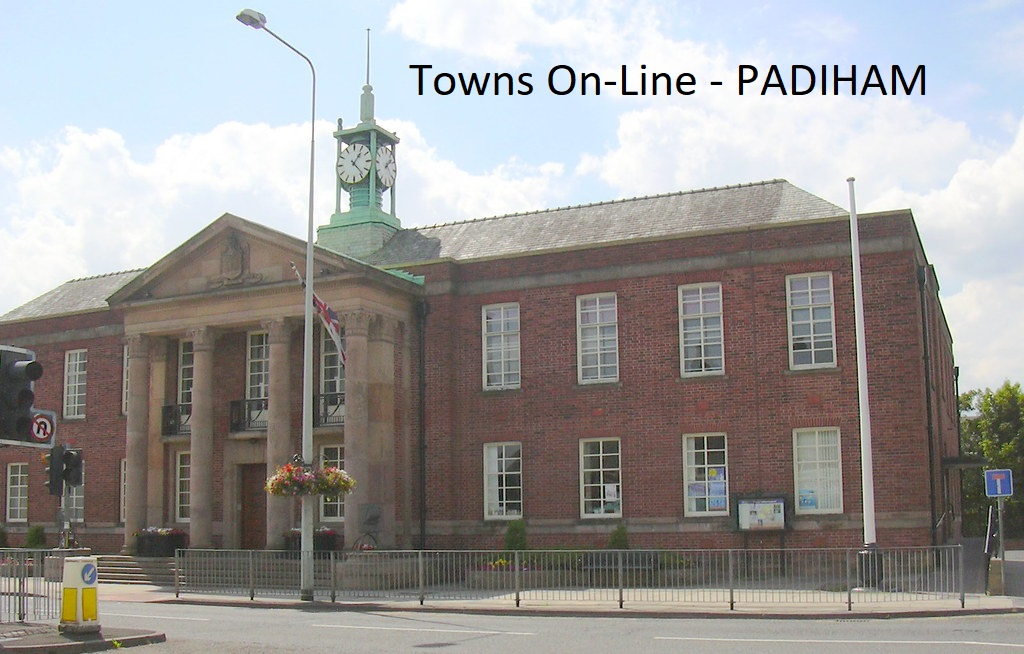
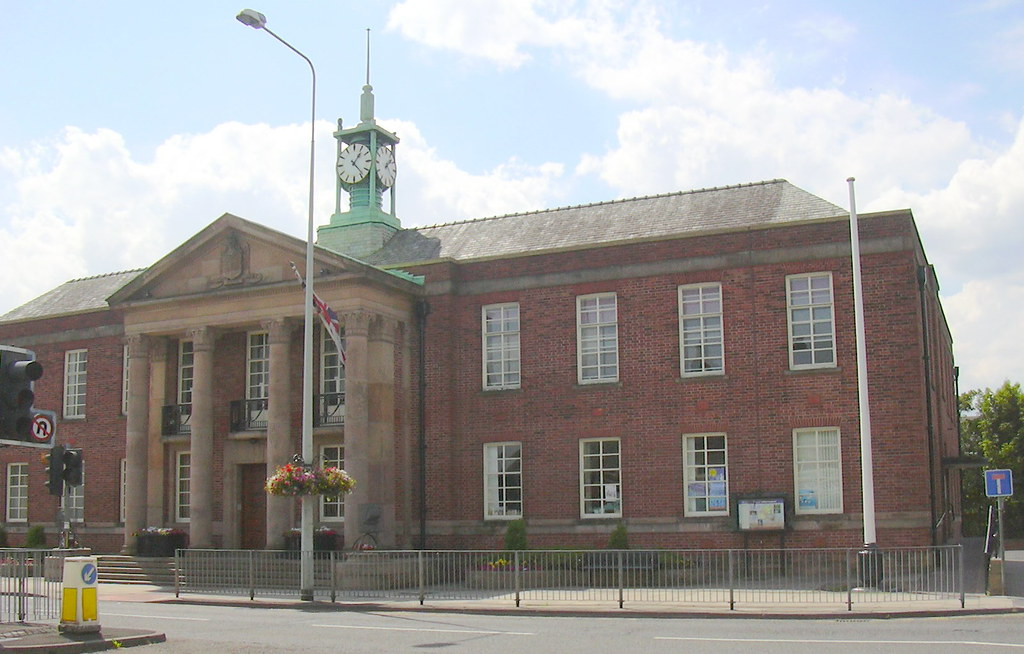
changed title/divider image and added caption. Changed cellar video and fixed audio mute

Changed region(s): [[0.4062, 0.0917, 0.6875, 0.1529], [0.7188, 0.0917, 0.9062, 0.1529]]

diff --git a/index.html b/index.html
@@ -15,6 +15,9 @@
       <div class="carousel-inner">
         <div class="carousel-item active">
           <img class="d-block w-100" src="Images/Town_Hall.jpg" alt="First slide" class="title">
+          <div class="carousel-caption d-none d-md-block">
+            <h2>Padiham Business Community</h2>
+          </div>
         </div>
         <div id="pre_vid" class="carousel-item">
           <img class="d-block w-100" src="Images/Ultimate_1.jpg" alt="Second slide">
@@ -33,6 +36,9 @@
         </div>
         <div class="carousel-item">
           <img class="d-block w-100" src="Images/Town_Hall.jpg" alt="First slide" class="title">
+          <div class="carousel-caption d-none d-md-block">
+            <h2>Padiham Business Community</h2>
+          </div>
         </div>
         <div id="pre_vid2" class="carousel-item">
           <img class="d-block w-100" src="Images/Lawrence_1.jpg" alt="Second slide">
@@ -57,13 +63,16 @@
         </div>
         <div class="carousel-item">
           <img class="d-block w-100" src="Images/Town_Hall.jpg" alt="First slide" class="title">
+          <div class="carousel-caption d-none d-md-block">
+            <h2>Padiham Business Community</h2>
+          </div>
         </div>
         <div id="pre_vid3" class="carousel-item">
           <img class="d-block w-100" src="Images/cellar_1.jpg" alt="Second slide">
         </div>
         <div id="video" class="carousel-item" data-interval="20000">
           <!-- web (youtube) video -->
-          <iframe id="vid_3" class="iframe" src="" width="2040" height="1260" frameborder="0" allow="autoplay; encrypted-media; gyroscope" allowfullscreen></iframe>
+          <iframe id="vid_3" class="iframe" src="" width="2240" height="1260" frameborder="0" allow="autoplay; encrypted-media; gyroscope" allowfullscreen></iframe>
         </div>
         <div class="carousel-item">
           <img class="d-block w-100" src="Images/cellar_2.jpg" alt="Fourth slide">

diff --git a/Js/main.js b/Js/main.js
@@ -15,7 +15,7 @@ $(document).ready(function(){
         video[0].play();
     } else if ($('#pre_vid3').hasClass("active")) {
         var video = $('#vid_3')
-        video.attr("src", "https://www.youtube.com/embed/Lr4fnx6wNfM?autoplay=1")
+        video.attr("src", "https://www.youtube.com/embed/4JRkkLwdygA?autoplay=1&mute=1")
     }
   });
 });

diff --git a/Css/style.css b/Css/style.css
@@ -4,6 +4,17 @@ h1 {
   font-size: 80px;
 }
 
+h2 {
+  position: fixed;
+  color: white;
+  -webkit-text-stroke: 3px grey;
+  text-shadow: 5px 5px grey;
+  font-size: 200px;
+  top: 50%;
+  left: 50%;
+  transform: translate(-50%, -50%);
+}
+
 img {
   height: 1080px;
   /* width: 1920px; */
